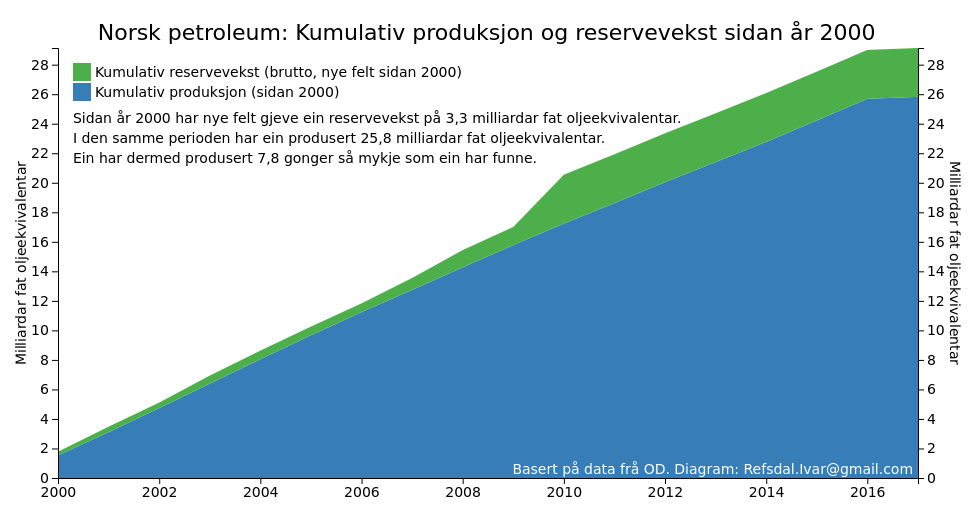
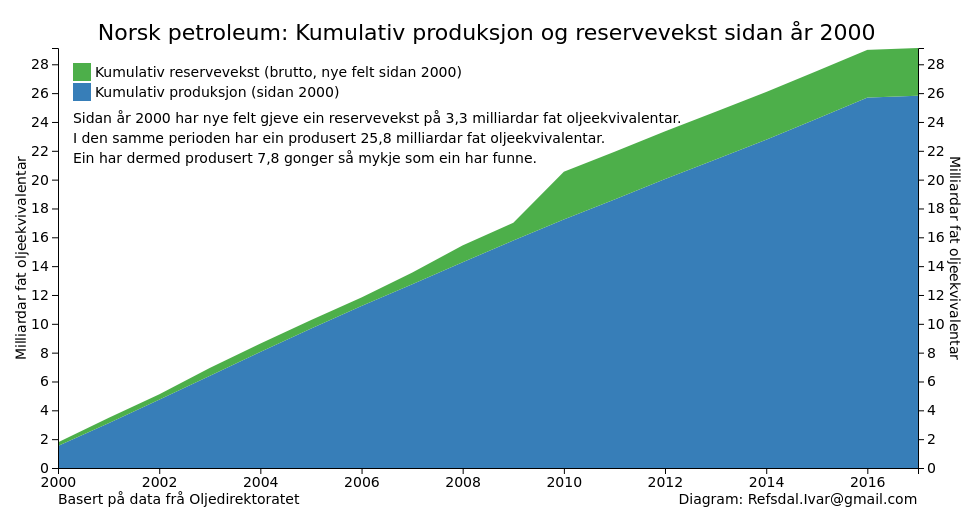
Update style

diff --git a/vis/cumulative2.js b/vis/cumulative2.js
@@ -14,7 +14,7 @@ function show_resource(config) {
         .attr('width', 960)
         .attr('height', 500)
 
-    var margin = { top: 40, right: 50, bottom: 30, left: 50 },
+    var margin = { top: 40, right: 50, bottom: 40, left: 50 },
         width = +svg.attr("width") - margin.left - margin.right,
         height = +svg.attr("height") - margin.top - margin.bottom,
         g = svg.append("g").attr("transform", "translate(" + margin.left + "," + margin.top + ")");
@@ -170,15 +170,22 @@ function show_resource(config) {
                 .classed('biggertext', true)
                 .text(Object)
 
-            g.append("g")
-                .attr("transform", "translate(" + width + "," + height + ")")
-                .append('text')
-                .classed('biggertext', true)
-                .attr('dy', '-.3em')
-                .attr('dx', '-.3em')
-                .style('text-anchor', 'end')
-                .style('fill', 'white')
-                .text("Basert på data frå OD. Diagram: Refsdal.Ivar@gmail.com")
+      g.append("g")
+          .attr("transform", "translate(" + 0 + "," + (height+margin.bottom) + ")")
+          .append('text')
+          .classed('biggertext', true)
+          .attr('dy', '-.31em')
+          .style('text-anchor', 'start')
+          .text("Basert på data frå Oljedirektoratet")
+
+        g.append("g")
+          .attr("transform", "translate(" + width + "," + (height+margin.bottom) + ")")
+          .append('text')
+          .classed('biggertext', true)
+          .attr('dy', '-.31em')
+          .style('text-anchor', 'end')
+          //.style('font-variant', 'small-caps')
+          .text("Diagram: Refsdal.Ivar@gmail.com")
 
         });
 }
